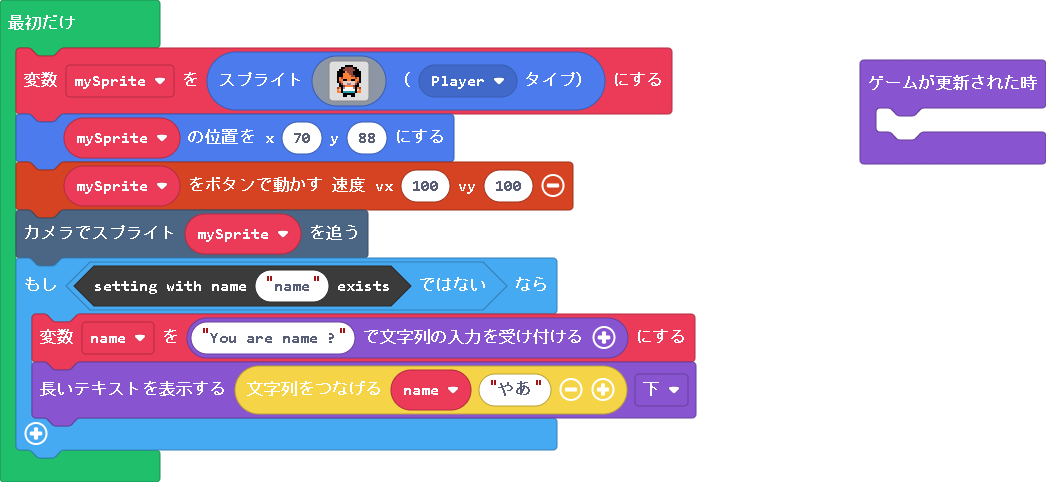
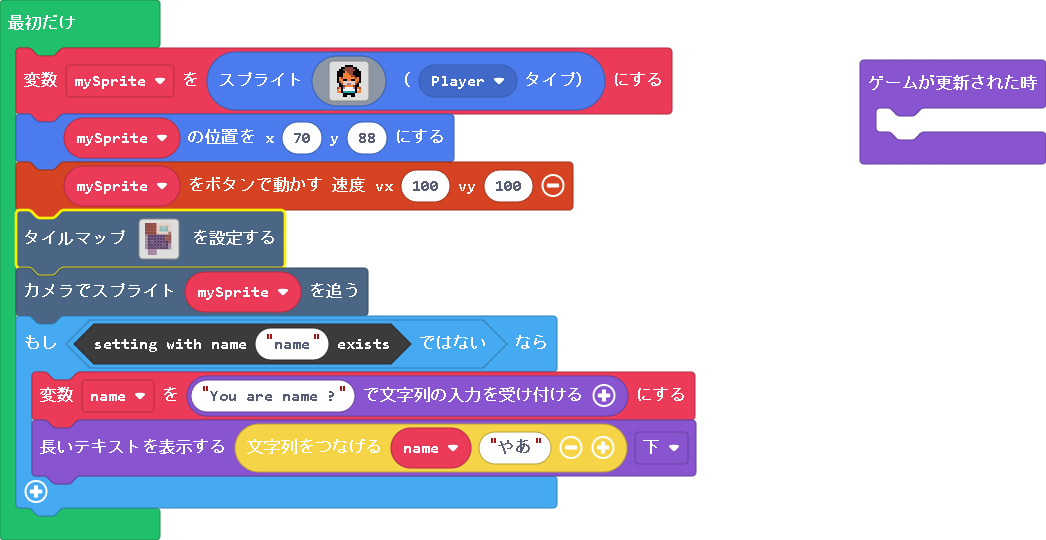
更新 main.blocks, main.ts, tilemap.g.jres, tilemap.g.ts

Changed region(s): [[0.0, 0.0622, 0.673, 0.9647], [0.7954, 0.0934, 1.0, 0.3423], [0.0, 0.0311, 0.0612, 0.0622]]

diff --git a/tilemap.g.ts b/tilemap.g.ts
@@ -13,8 +13,6 @@ namespace myTiles {
     //% fixedInstance jres blockIdentity=images._tile
     export const tile17 = image.ofBuffer(hex``);
     //% fixedInstance jres blockIdentity=images._tile
-    export const tile22 = image.ofBuffer(hex``);
-    //% fixedInstance jres blockIdentity=images._tile
     export const tile6 = image.ofBuffer(hex``);
     //% fixedInstance jres blockIdentity=images._tile
     export const tile10 = image.ofBuffer(hex``);
@@ -22,8 +20,6 @@ namespace myTiles {
     export const tile1 = image.ofBuffer(hex``);
     //% fixedInstance jres blockIdentity=images._tile
     export const tile12 = image.ofBuffer(hex``);
-    //% fixedInstance jres blockIdentity=images._tile
-    export const tile11 = image.ofBuffer(hex``);
     //% fixedInstance jres blockIdentity=images._tile
     export const tile9 = image.ofBuffer(hex``);
     //% fixedInstance jres blockIdentity=images._tile
@@ -43,26 +39,22 @@ namespace myTiles {
     //% fixedInstance jres blockIdentity=images._tile
     export const tile19 = image.ofBuffer(hex``);
     //% fixedInstance jres blockIdentity=images._tile
+    export const tile11 = image.ofBuffer(hex``);
+    //% fixedInstance jres blockIdentity=images._tile
+    export const tile22 = image.ofBuffer(hex``);
+    //% fixedInstance jres blockIdentity=images._tile
+    export const tile25 = image.ofBuffer(hex``);
+    //% fixedInstance jres blockIdentity=images._tile
     export const tile3 = image.ofBuffer(hex``);
+    //% fixedInstance jres blockIdentity=images._tile
+    export const tile26 = image.ofBuffer(hex``);
+    //% fixedInstance jres blockIdentity=images._tile
+    export const tile23 = image.ofBuffer(hex``);
     //% fixedInstance jres blockIdentity=images._tile
     export const tile21 = image.ofBuffer(hex``);
 
     helpers._registerFactory("tilemap", function(name: string) {
         switch(helpers.stringTrim(name)) {
-            case "home":
[1 lines of base64/hex data omitted]
-. . . . . . . . . 
-. . . . . . . . . 
-. . . . . . . . . 
-. . . . . . . . . 
-. . . . . . . . . 
-. . . . . . . . . 
-. . . . . . . . . 
-. . . . . . . . . 
-. . . . . . . . . 
-2 . . . 2 2 2 2 2 
-2 . . . 2 2 2 2 2 
-`, [myTiles.transparency16,myTiles.tile6,myTiles.tile7,myTiles.tile8,myTiles.tile9,myTiles.tile10,myTiles.tile11,myTiles.tile12,myTiles.tile13,myTiles.tile14,myTiles.tile1,myTiles.tile2,myTiles.tile4,myTiles.tile5,myTiles.tile15,myTiles.tile16,myTiles.tile18,myTiles.tile19,myTiles.tile20,myTiles.tile17,myTiles.tile3,myTiles.tile21,myTiles.tile22], TileScale.Sixteen);
             case "レベル2":
             case "レベル2":return tiles.createTilemap(hex`1000100000000000000000000000000000000000000000000000000000000000000000000000000000000000000000000000000000000000000000000000000000000000000000000000000000000000000000000000000000000000000000000000000000000000000000000000000000000000000000000000000000000000000000000000000000000000000000000000000000000000000000000000000000000000000000000000000000000000000000000000000000000000000000000000000000000000000000000000000000000000000000000000000000000000000000000000000000000000000000000000000000000000000000000000000000000000`, img`
 . . . . . . . . . . . . . . . . 
@@ -101,6 +93,77 @@ namespace myTiles {
 . . . . . . . . . . . . . . . . 
 . . . . . . . . . . . . . . . . 
 `, [myTiles.transparency16], TileScale.Sixteen);
+            case "レベル4":
+            case "レベル4":return tiles.createTilemap(hex`1000100000000000000000000000000000000000000000000000000000000000000000000000000000000000000000000000000000000000000000000000000000000000000000000000000000000000000000000000000000000000000000000000000000000000000000000000000000000000000000000000000000000000000000000000000000000000000000000000000000000000000000000000000000000000000000000000000000000000000000000000000000000000000000000000000000000000000000000000000000000000000000000000000000000000000000000000000000000000000000000000000000000000000000000000000000000000`, img`
+. . . . . . . . . . . . . . . . 
+. . . . . . . . . . . . . . . . 
+. . . . . . . . . . . . . . . . 
+. . . . . . . . . . . . . . . . 
+. . . . . . . . . . . . . . . . 
+. . . . . . . . . . . . . . . . 
+. . . . . . . . . . . . . . . . 
+. . . . . . . . . . . . . . . . 
+. . . . . . . . . . . . . . . . 
+. . . . . . . . . . . . . . . . 
+. . . . . . . . . . . . . . . . 
+. . . . . . . . . . . . . . . . 
+. . . . . . . . . . . . . . . . 
+. . . . . . . . . . . . . . . . 
+. . . . . . . . . . . . . . . . 
+. . . . . . . . . . . . . . . . 
+`, [myTiles.transparency16], TileScale.Sixteen);
+            case "レベル5":
+            case "レベル5":return tiles.createTilemap(hex`1000100000000000000000000000000000000000000000000000000000000000000000000000000000000000000000000000000000000000000000000000000000000000000000000000000000000000000000000000000000000000000000000000000000000000000000000000000000000000000000000000000000000000000000000000000000000000000000000000000000000000000000000000000000000000000000000000000000000000000000000000000000000000000000000000000000000000000000000000000000000000000000000000000000000000000000000000000000000000000000000000000000000000000000000000000000000000`, img`
+. . . . . . . . . . . . . . . . 
+. . . . . . . . . . . . . . . . 
+. . . . . . . . . . . . . . . . 
+. . . . . . . . . . . . . . . . 
+. . . . . . . . . . . . . . . . 
+. . . . . . . . . . . . . . . . 
+. . . . . . . . . . . . . . . . 
+. . . . . . . . . . . . . . . . 
+. . . . . . . . . . . . . . . . 
+. . . . . . . . . . . . . . . . 
+. . . . . . . . . . . . . . . . 
+. . . . . . . . . . . . . . . . 
+. . . . . . . . . . . . . . . . 
+. . . . . . . . . . . . . . . . 
+. . . . . . . . . . . . . . . . 
+. . . . . . . . . . . . . . . . 
+`, [myTiles.transparency16], TileScale.Sixteen);
+            case "レベル6":
+            case "レベル6":return tiles.createTilemap(hex`1000100000000000000000000000000000000000000000000000000000000000000000000000000000000000000000000000000000000000000000000000000000000000000000000000000000000000000000000000000000000000000000000000000000000000000000000000000000000000000000000000000000000000000000000000000000000000000000000000000000000000000000000000000000000000000000000000000000000000000000000000000000000000000000000000000000000000000000000000000000000000000000000000000000000000000000000000000000000000000000000000000000000000000000000000000000000000`, img`
+. . . . . . . . . . . . . . . . 
+. . . . . . . . . . . . . . . . 
+. . . . . . . . . . . . . . . . 
+. . . . . . . . . . . . . . . . 
+. . . . . . . . . . . . . . . . 
+. . . . . . . . . . . . . . . . 
+. . . . . . . . . . . . . . . . 
+. . . . . . . . . . . . . . . . 
+. . . . . . . . . . . . . . . . 
+. . . . . . . . . . . . . . . . 
+. . . . . . . . . . . . . . . . 
+. . . . . . . . . . . . . . . . 
+. . . . . . . . . . . . . . . . 
+. . . . . . . . . . . . . . . . 
+. . . . . . . . . . . . . . . . 
+. . . . . . . . . . . . . . . . 
+`, [myTiles.transparency16], TileScale.Sixteen);
+            case "home":
[1 lines of base64/hex data omitted]
+. . . . . . . . . 
+. . . . . . . . . 
+. . . . . . . . . 
+. . . . . . . . . 
+. . . . . . . . . 
+. . . . . . . . . 
+. . . . . . . . . 
+. . . . . . . . . 
+. . . . . . . . . 
+2 . . . 2 2 2 2 2 
+2 . . . 2 2 2 2 2 
+`, [myTiles.transparency16,myTiles.tile6,myTiles.tile7,myTiles.tile8,myTiles.tile9,myTiles.tile10,myTiles.tile12,myTiles.tile13,myTiles.tile14,myTiles.tile1,myTiles.tile2,myTiles.tile4,myTiles.tile5,myTiles.tile15,myTiles.tile16,myTiles.tile18,myTiles.tile19,myTiles.tile20,myTiles.tile17,myTiles.tile3,myTiles.tile21,myTiles.tile22,myTiles.tile23,myTiles.tile25,myTiles.tile26], TileScale.Sixteen);
         }
         return null;
     })
@@ -118,8 +181,6 @@ namespace myTiles {
             case "tile20":return tile20;
             case "myTile15":
             case "tile17":return tile17;
-            case "myTile20":
-            case "tile22":return tile22;
             case "myTile4":
             case "tile6":return tile6;
             case "myTile8":
@@ -128,8 +189,6 @@ namespace myTiles {
             case "tile1":return tile1;
             case "myTile10":
             case "tile12":return tile12;
-            case "myTile9":
-            case "tile11":return tile11;
             case "myTile7":
             case "tile9":return tile9;
             case "myTile11":
@@ -148,8 +207,18 @@ namespace myTiles {
             case "tile16":return tile16;
             case "myTile17":
             case "tile19":return tile19;
+            case "myTile9":
+            case "tile11":return tile11;
+            case "myTile20":
+            case "tile22":return tile22;
+            case "myTile23":
+            case "tile25":return tile25;
             case "myTile1":
             case "tile3":return tile3;
+            case "myTile24":
+            case "tile26":return tile26;
+            case "myTile21":
+            case "tile23":return tile23;
             case "myTile19":
             case "tile21":return tile21;
         }

diff --git a/main.ts b/main.ts
@@ -2,6 +2,7 @@ let name = ""
 let mySprite = sprites.create(assets.image`man`, SpriteKind.Player)
 mySprite.setPosition(70, 88)
 controller.moveSprite(mySprite, 100, 100)
+tiles.setTilemap(tilemap`home`)
 scene.cameraFollowSprite(mySprite)
 if (!(blockSettings.exists("name"))) {
     name = game.askForString("You are name ?")
